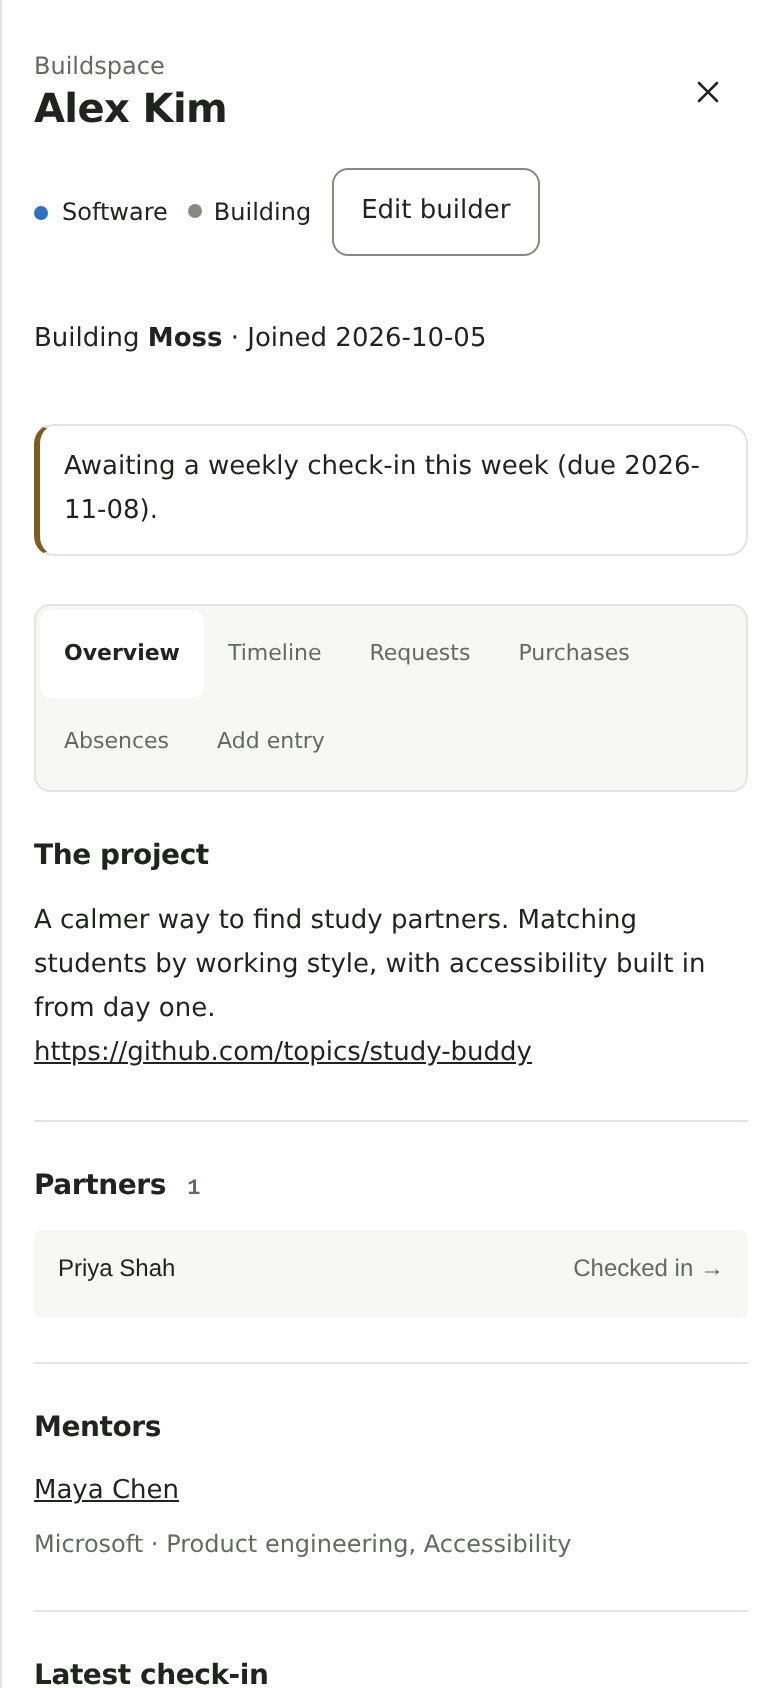
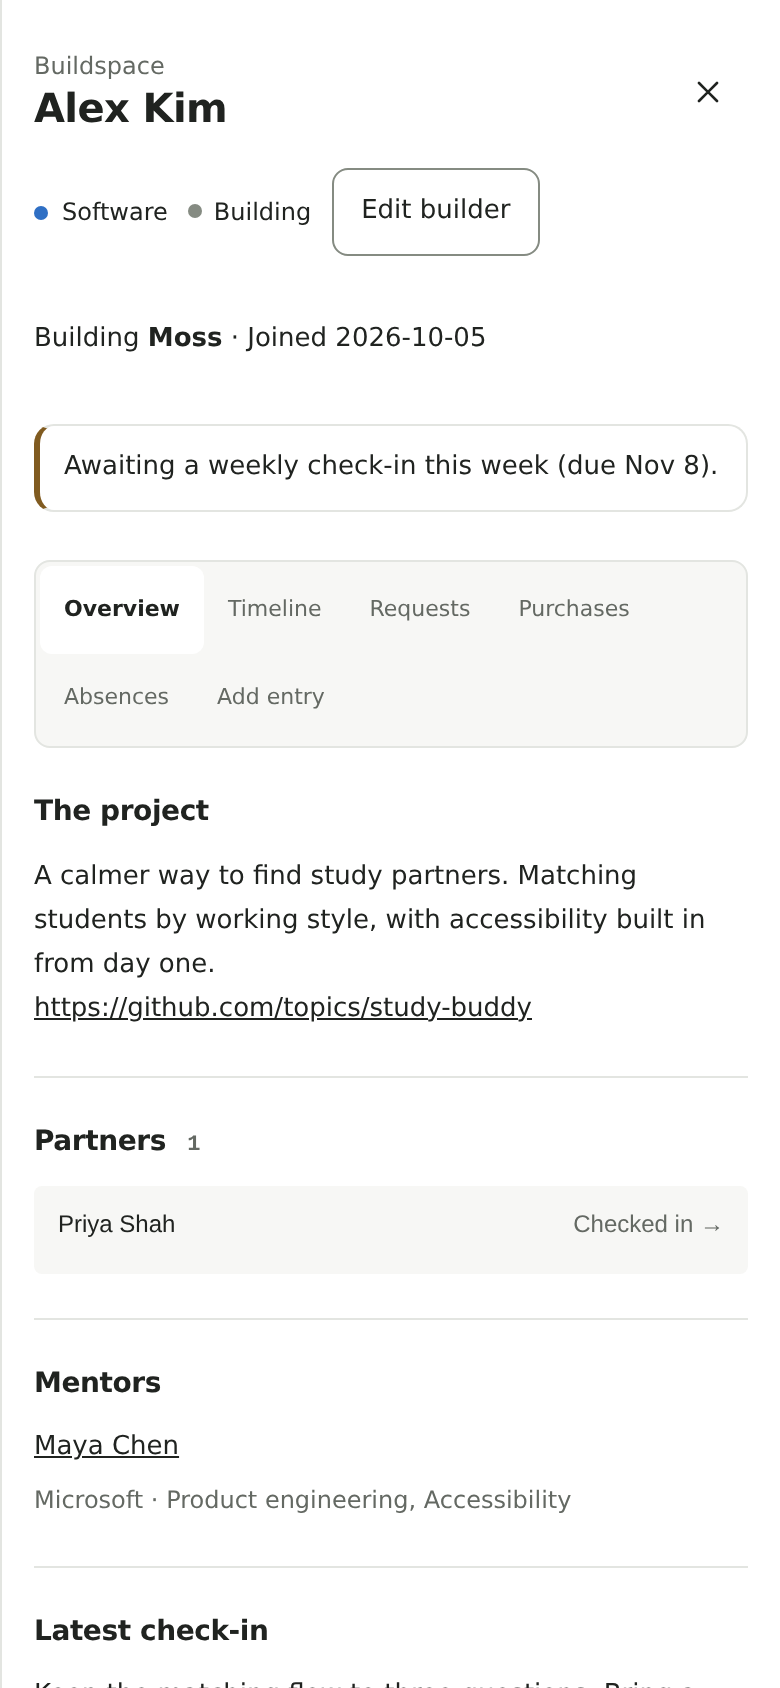
Document the check-in due day and Buildspace motion; add evidence

diff --git a/docs/buildspace.md b/docs/buildspace.md
@@ -12,7 +12,18 @@ The activity register supports weekly check-ins, mentor notes, general requests,
 
 The People, Projects and Mentors tabs support search, track, mentor, stage and attention filters. The People table includes clickable partners and compact labeled counts for open requests, open purchases and absences this week (including project-wide entries plus the person’s own activity). Table is the directory view; grouped cards use track, mentor or project; the board always shows projects by stage, with stage edits available in the project drawer. Shared projects appear under each of their mentors. URL parameters preserve the tab, layout, grouping, filters and selected person/project. Summary counts show the whole cohort and act as filters.
 
-Weeks start Monday in Pacific time. “Awaiting this week” means a builder who has joined and has no dated weekly entry between Monday and today, including the current week in progress; it is a follow-up signal, not an overdue attendance verdict. Absences do not erase the follow-up signal. The absence filter covers dated absences this week. No automatic reminders are sent.
+“Awaiting this week” means a builder who has joined and has no dated weekly entry between the start of the current check-in week and today, including the week in progress; it is a follow-up signal, not an attendance verdict. Once the due time passes on the due day, the badge reads “Past due” until the next week starts. Absences do not erase the follow-up signal. The absence filter covers dated absences this week. No automatic reminders are sent.
+
+## Check-in weeks and the due day
+
+Leadership sets the weekly due day from the Buildspace page itself (**Check-in schedule**, next to Add builder); every officer can open it to read the current rule, and the server refuses writes from anyone below leadership. Choices are a due weekday and an optional due time (empty means end of day). Every change is audited as `buildspace.schedule.updated` with the before/after schedule. The default, migrated rule is the original convention: due Sunday at end of day, so weeks run Monday–Sunday.
+
+- **Club time zone.** “Today”, the current week and the due moment use the club time zone from Settings (previously hard-coded Pacific). Weeks are calendar dates in that zone, so DST changes never move a boundary; a due time on a DST night resolves like a wall clock (a skipped 02:30 becomes 03:30, never earlier).
+- **A week is the dates up to and including its due date.** With a Wednesday due day, weeks run Thursday–Wednesday. A dated weekly entry counts for the week containing its date. The due time affects only the “Past due” signal and calendar titles, not which week an entry belongs to, because entries are date-only; a check-in dated on the due day still counts for that week.
+- **Changing the setting mid-week never moves the current deadline.** The new rule starts the day after the current week's due date. Its first week runs from then to the first new due weekday at least six days later, so the transition week lasts 7–13 days instead of demanding two check-ins in a few days. Example: on Tuesday Nov 3, switching from Sunday to Wednesday keeps this week as Nov 2–8, then Nov 9–18 (10 days), then Thursday–Wednesday weeks. Saving again before the change takes effect replaces the pending change; choosing the current rule again cancels it. Past weeks never change, because rules only ever take effect after the current week.
+- **Everything follows the same rules:** the “Awaiting this week” summary and filter, each builder's This week status, the drawer notice, absences this week, Discord ingest (its response reports the assigned `week`), seeding, and the `buildspace-weekly` calendar items.
+
+Rules are versioned rows in `buildspace_week_rules` (migration `0019_buildspace_schedule.sql`, after #49's `0018`): each governs dates from its `effective_from` until the next row. The week arithmetic lives in `server/internal/store/buildspace_schedule.go`, with unit tests for different due days, year ends, transitions, DST due moments and the club-zone “today” on a fall-back night, and API tests for leadership-only writes, auditing, a mid-week change, ingest assignment and calendar items.
 
 `dashboard seed` inserts six projects, twelve builders and three mentor contacts, covering all tracks and stages. Weekly demo dates use the week when seeding; they age naturally. This is explicit sample-data seeding, never automatic production migration. Demo names are independent from real member records.
 
@@ -22,12 +33,13 @@ All session endpoints require officer or above and use the existing origin prote
 
 | Method / path | Body / response |
 | --- | --- |
-| `GET /api/buildspace` | Full small-cohort register: projects, people, mentor summaries, activity, Pacific `weekStart` and `today`. |
+| `GET /api/buildspace` | Full small-cohort register: projects, people, mentor summaries, activity, current `weekStart`/`weekDue` and `today` in the club time zone, and `schedule` (current rule, pending change and its first week, `dueAt`, `pastDue`). |
 | `PUT /api/buildspace/projects/{id}` | Full project form: `name`, `description`, `track`, `stage`, `links` (HTTP/S only), `mentorIds` (0–2 distinct contacts). Creates or replaces. |
 | `PUT /api/buildspace/people/{id}` | `name`, `projectId`, `joinedOn` (date), optional nullable `memberId`, `discordId`. Creates or replaces. |
-| `POST /api/buildspace/activity` | `projectId`, optional `personId`, `mentorId`, `purchaseId`, `kind` (weekly/mentor/request/purchase/absence), `date`, `body`, `status` (open/resolved/on-track/needs-help). |
+| `POST /api/buildspace/activity` | `projectId`, optional `personId`, `mentorId`, `purchaseId`, `kind` (weekly/mentor/request/purchase/absence), `date`, `body`, `status` (open/resolved/on-track/needs-help). Returns `{ok, week: {start, due}}`. |
+| `PUT /api/buildspace/schedule` | **Leadership only**, audited. `dueWeekday` (0 = Sunday … 6), optional nullable `dueTime` (`HH:MM`, 24-hour; null = end of day). Returns the schedule as in the list response. |
 | `POST /api/buildspace/activity/{id}/resolve` | No body. Only unlinked general requests and purchase needs. |
-| `POST /api/ingest/buildspace` | Bearer service token with **only** the needed `ingest:buildspace` scope; weekly payload below. No session login required. |
+| `POST /api/ingest/buildspace` | Bearer service token with **only** the needed `ingest:buildspace` scope; weekly payload below. No session login required. Returns `{ok, week}`: the check-in week the entry was assigned to. |
 
 Contracts live in both contract files; the contract checker exercises every route, including repeated ingestion and revoked-token rejection. Reads return the whole register because the intended cohort is small; pagination/retention is a follow-up if history grows substantially.
 
@@ -35,7 +47,7 @@ Contracts live in both contract files; the contract checker exercises every rout
 
 1. Register builders and save each Discord **user ID**, not the display name.
 2. A director creates an expiring service token in Officers → Tokens with `ingest:buildspace`, then stores it in the bot's secret environment as `BUILDSPACE_INGEST_TOKEN`. Set `DASHBOARD_URL` to the dashboard's HTTPS origin. The existing token revocation screen can disable ingestion immediately.
-3. Wire the adapter stub at `scripts/buildspace-discord-stub.mjs` into the bot's weekly slash command or dedicated-channel handler. The bot itself is not implemented or deployed by this draft. Take author identity and message ID from Discord's trusted event, not from user-supplied text. Compute the check-in date in Pacific time.
+3. Wire the adapter stub at `scripts/buildspace-discord-stub.mjs` into the bot's weekly slash command or dedicated-channel handler. The bot itself is not implemented or deployed by this draft. Take author identity and message ID from Discord's trusted event, not from user-supplied text. Compute the check-in date in the club time zone (Settings); the response's `week` says which check-in week it counted for.
 4. Submit this payload, keeping the original message ID and identical body/date/status for retries:
 
 ```json
@@ -56,7 +68,7 @@ Manual check-ins use the drawer's Add entry section and share the same timeline.
 ## Open decisions for iteration
 
 - Is one active project per builder correct, and how should project transfers preserve history?
-- What is the weekly deadline, and should excused absences suppress follow-up?
+- Should excused absences suppress follow-up? (The weekly deadline is now a leadership setting.)
 - Which mentor notes are private if mentors later gain restricted access?
 - Should member and Finance linking use search pickers rather than explicit IDs?
 - Are absence date ranges, entry corrections/deletion and cohort/archive management needed next?
@@ -67,6 +79,30 @@ The Home calendar registry includes `buildspace-absences`, `buildspace-weekly` a
 
 Absence and mentor check-in entries appear on their reported date, linking to their project drawer. Titles show the event kind, project, and builder when present; note bodies and absence reasons are omitted. All existing officers already have access to the full Buildspace register, and these sources follow that same cohort visibility policy.
 
-The optional weekly calendar convention is a Sunday due date for each Monday–Sunday week. A dated weekly entry for that builder in the same week removes the due item. Builders not yet joined and projects marked Shipped are excluded. Due items link to the builder drawer, remain date-only across viewer time zones, and send no reminders. This draft calendar convention does not change the directory’s Monday-to-today “awaiting” signal; confirm the weekly deadline with the cohort before deployment.
+Weekly due items follow the check-in schedule: one per builder on each week's due date (titles include the due time when set), including the longer transition week after a change. A dated weekly entry for that builder in the same week removes the due item. Builders not yet joined and projects marked Shipped are excluded. Due items link to the builder drawer, remain date-only across viewer time zones, and send no reminders.
 
 The loaders filter the requested exclusive date range in SQL; the registry controls metadata, validation and widget toggles without another frontend source switch. Migration `0017_buildspace.sql` follows dashboard `0015` and calendar `0016`.
+
+## Motion (V0.6)
+
+Buildspace uses the shared V0.5 motion system (`docs/motion-performance-v05.md`) rather than one-offs: tokens from `tokens.css`, the page-content rise from the Gate, the `Async` skeleton crossfade, the first-eight `.motion-list` stagger (People/Projects/Mentors tables, card groups, board lanes, drawer timelines and partner lists, and the manual-entry/project/builder forms, so conditionally revealed fields enter too), the native drawer edge slide with backdrop fade, and the shared `Tabs` component for People/Projects/Mentors, whose single indicator slides with transform only (they are now a real tablist with arrow-key navigation). Drawer sections switch with the shared `.tab-panel` enter; the schedule popover uses `pop-in` like the calendar Options popover.
+
+Two small shared helpers live in `web/src/ui/components/motion.ts`:
+
+- `useCrossfade` swaps whole views (tab, Table/Cards/Board, card grouping). The outgoing view is cloned, inert and `aria-hidden` with ids stripped, into the same `.async-outgoing` overlay that `Async` uses, and fades for 180ms while the incoming view owns layout, so removing the overlay never resizes the page.
+- `useFlip` glides keyed `data-flip` items from their previous to their new position after filter changes and board stage moves (a project whose stage is saved in the drawer slides to its new lane). It reads each rect once per commit relative to the view, then writes; it skips above 60 items and is cancelled when the view itself is swapped.
+
+Everything is transform/opacity, starts at non-zero opacity, and is disabled under `prefers-reduced-motion` (no overlay, no FLIP, no CSS animation). Browser checks in `web/tests/buildspace.spec.ts` cover the tablist and indicator, overlay inertness and stable height, the paintable first frame and eight-item cap, FLIP on filters and stage moves, the drawer slide, form field entry, reduced motion, the schedule popover permissions and save/cancel flow, and no horizontal overflow at desktop and phone widths in both themes.
+
+### Performance
+
+Measured with `web/scripts/performance.mjs` (`PERF_ROUTES=/buildspace`, director, the standard throttled profile) against main `7ba453c`, alternating before/after run by run on the shared Raspberry Pi. The LCP element is the intro line “A little progress, every week.”. It previously waited for `/api/buildspace`; the intro and its buttons now render before the register loads (the schedule button holds the same box while disabled), so it paints as soon as sign-in resolves.
+
+| Variant | LCP median (min–max) | CLS median | JS bytes |
+| --- | ---: | ---: | ---: |
+| main `7ba453c` | 2.080s (2.076–2.188) | 0 | 76,747 |
+| this branch | 1.716s (1.676–1.784) | 0 | 79,108 |
+
+Main was already over the 2s budget on this page; the branch meets LCP < 2s and CLS < 0.05 in these three lab samples, which are not a field guarantee. An earlier cut that kept the intro inside `Async` measured 2.172s median, against 2.176s for its own main baseline (`30b1a4b`) in the same batch: the motion itself costs no measurable LCP. Raw samples: [perf.json](evidence/buildspace-v06/perf.json).
+
+Screenshots (built site, leadership): [people desktop light](evidence/buildspace-v06/people-1440-light.png), [people phone dark](evidence/buildspace-v06/people-390-dark.png), [board desktop dark](evidence/buildspace-v06/board-1440-dark.png), [drawer phone light](evidence/buildspace-v06/drawer-390-light.png), [schedule desktop light](evidence/buildspace-v06/schedule-1440-light.png), [schedule phone dark](evidence/buildspace-v06/schedule-390-dark.png); all four theme/width combinations of each are in that folder.
